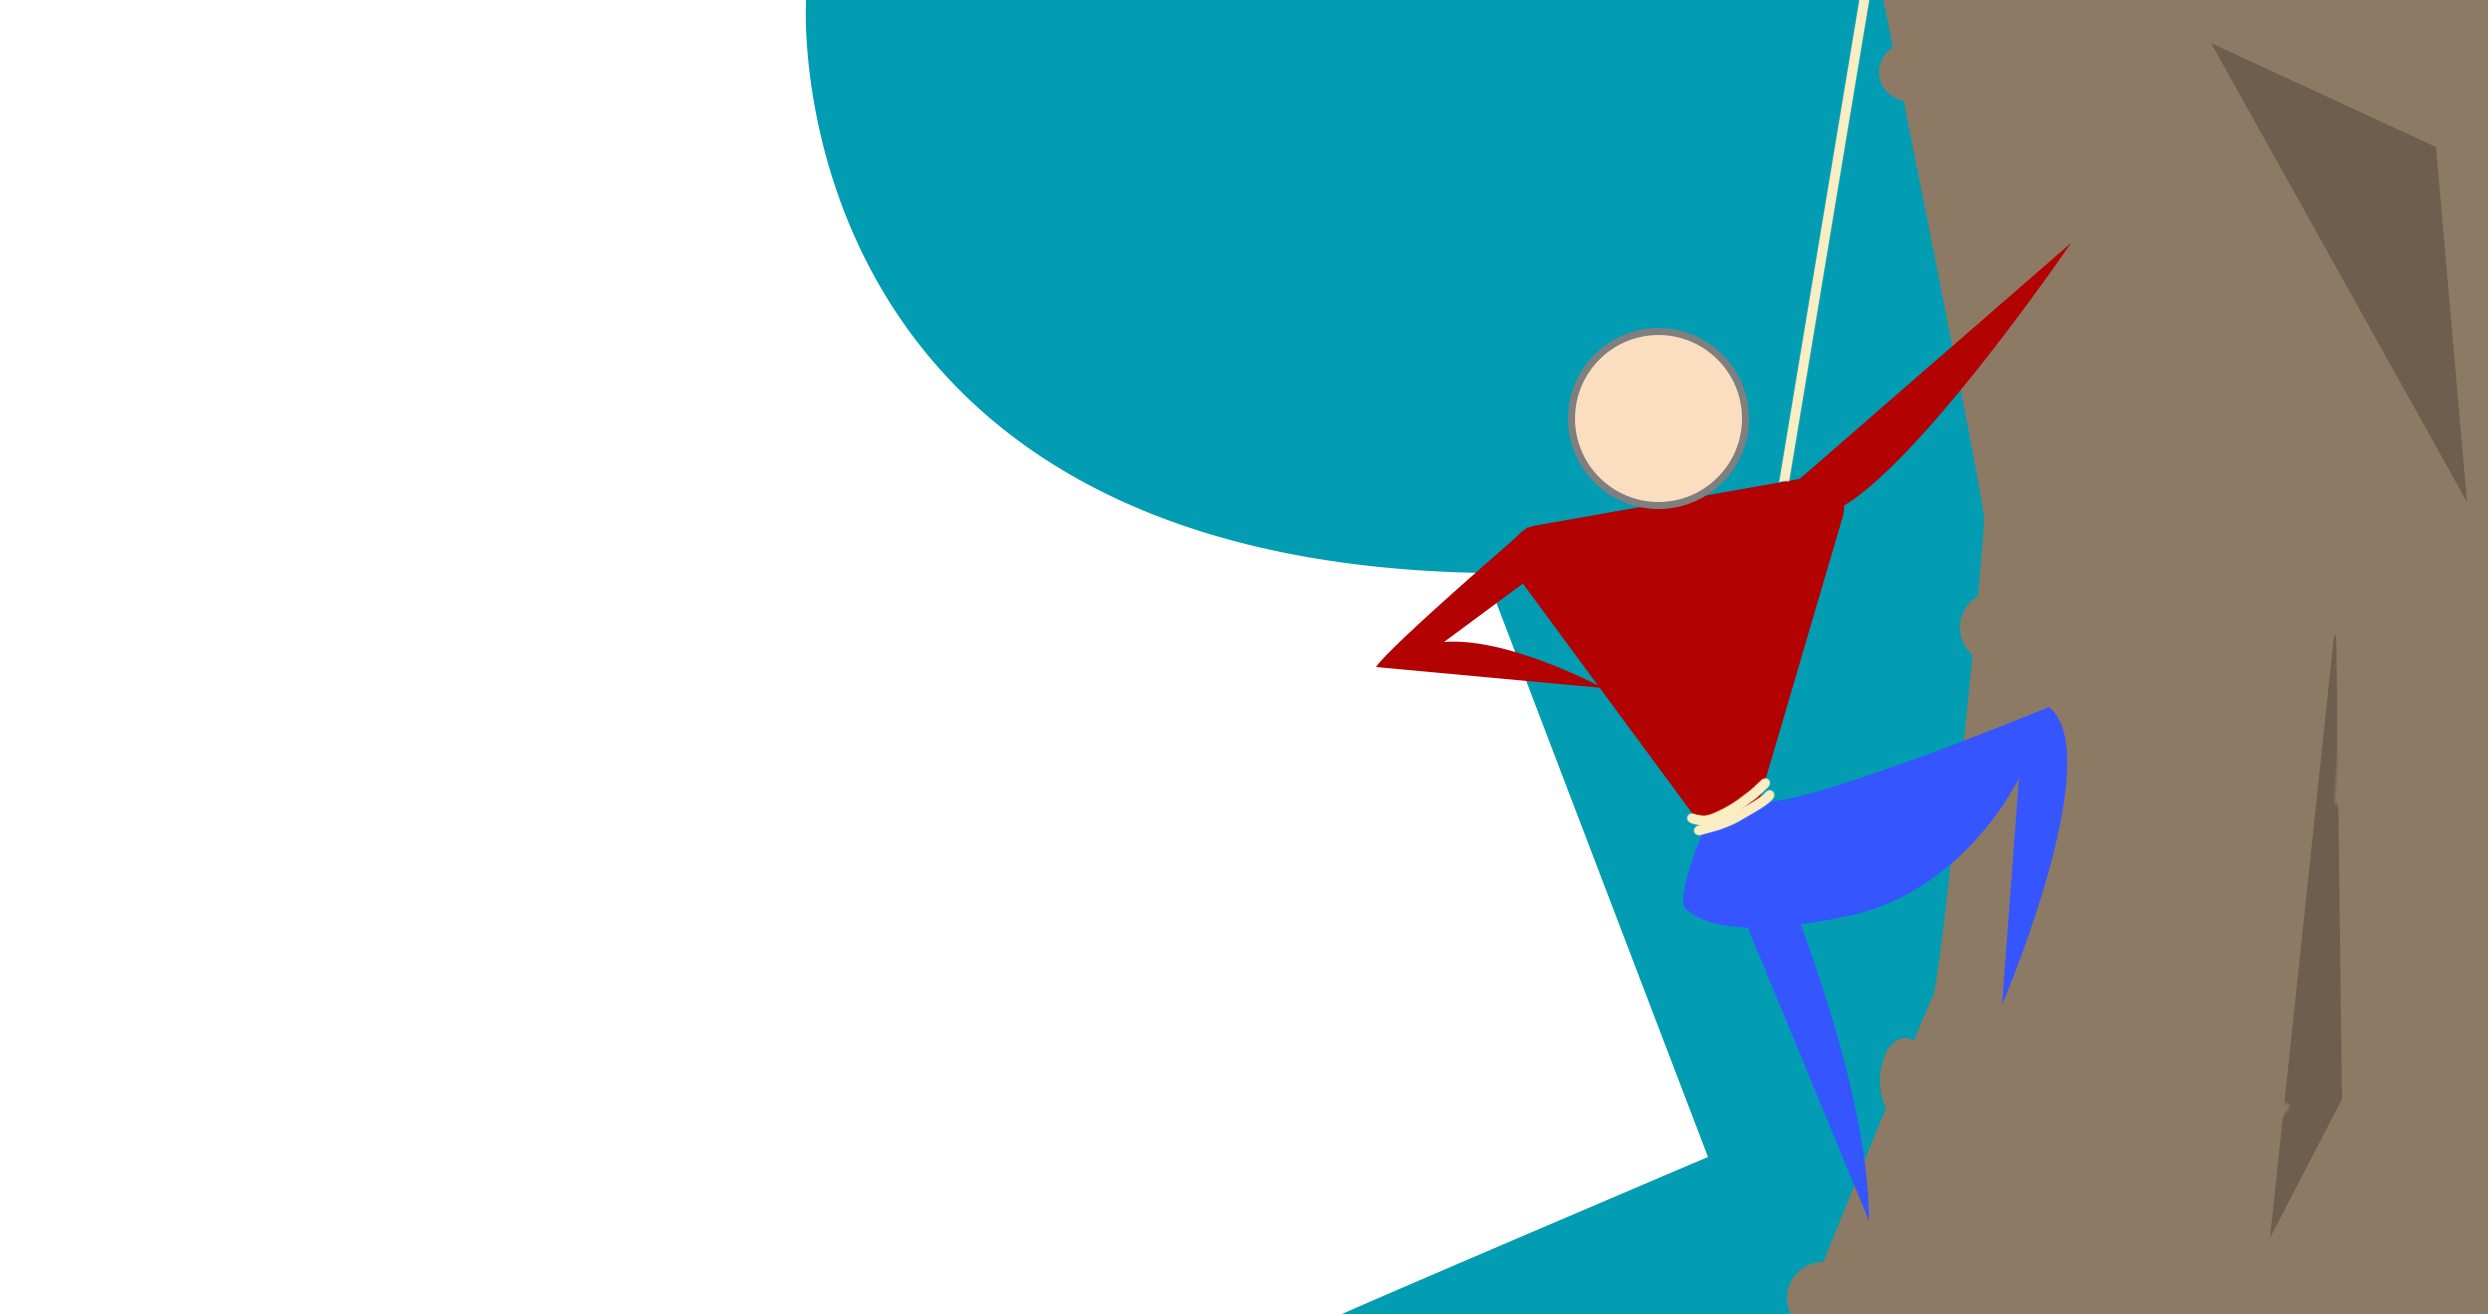
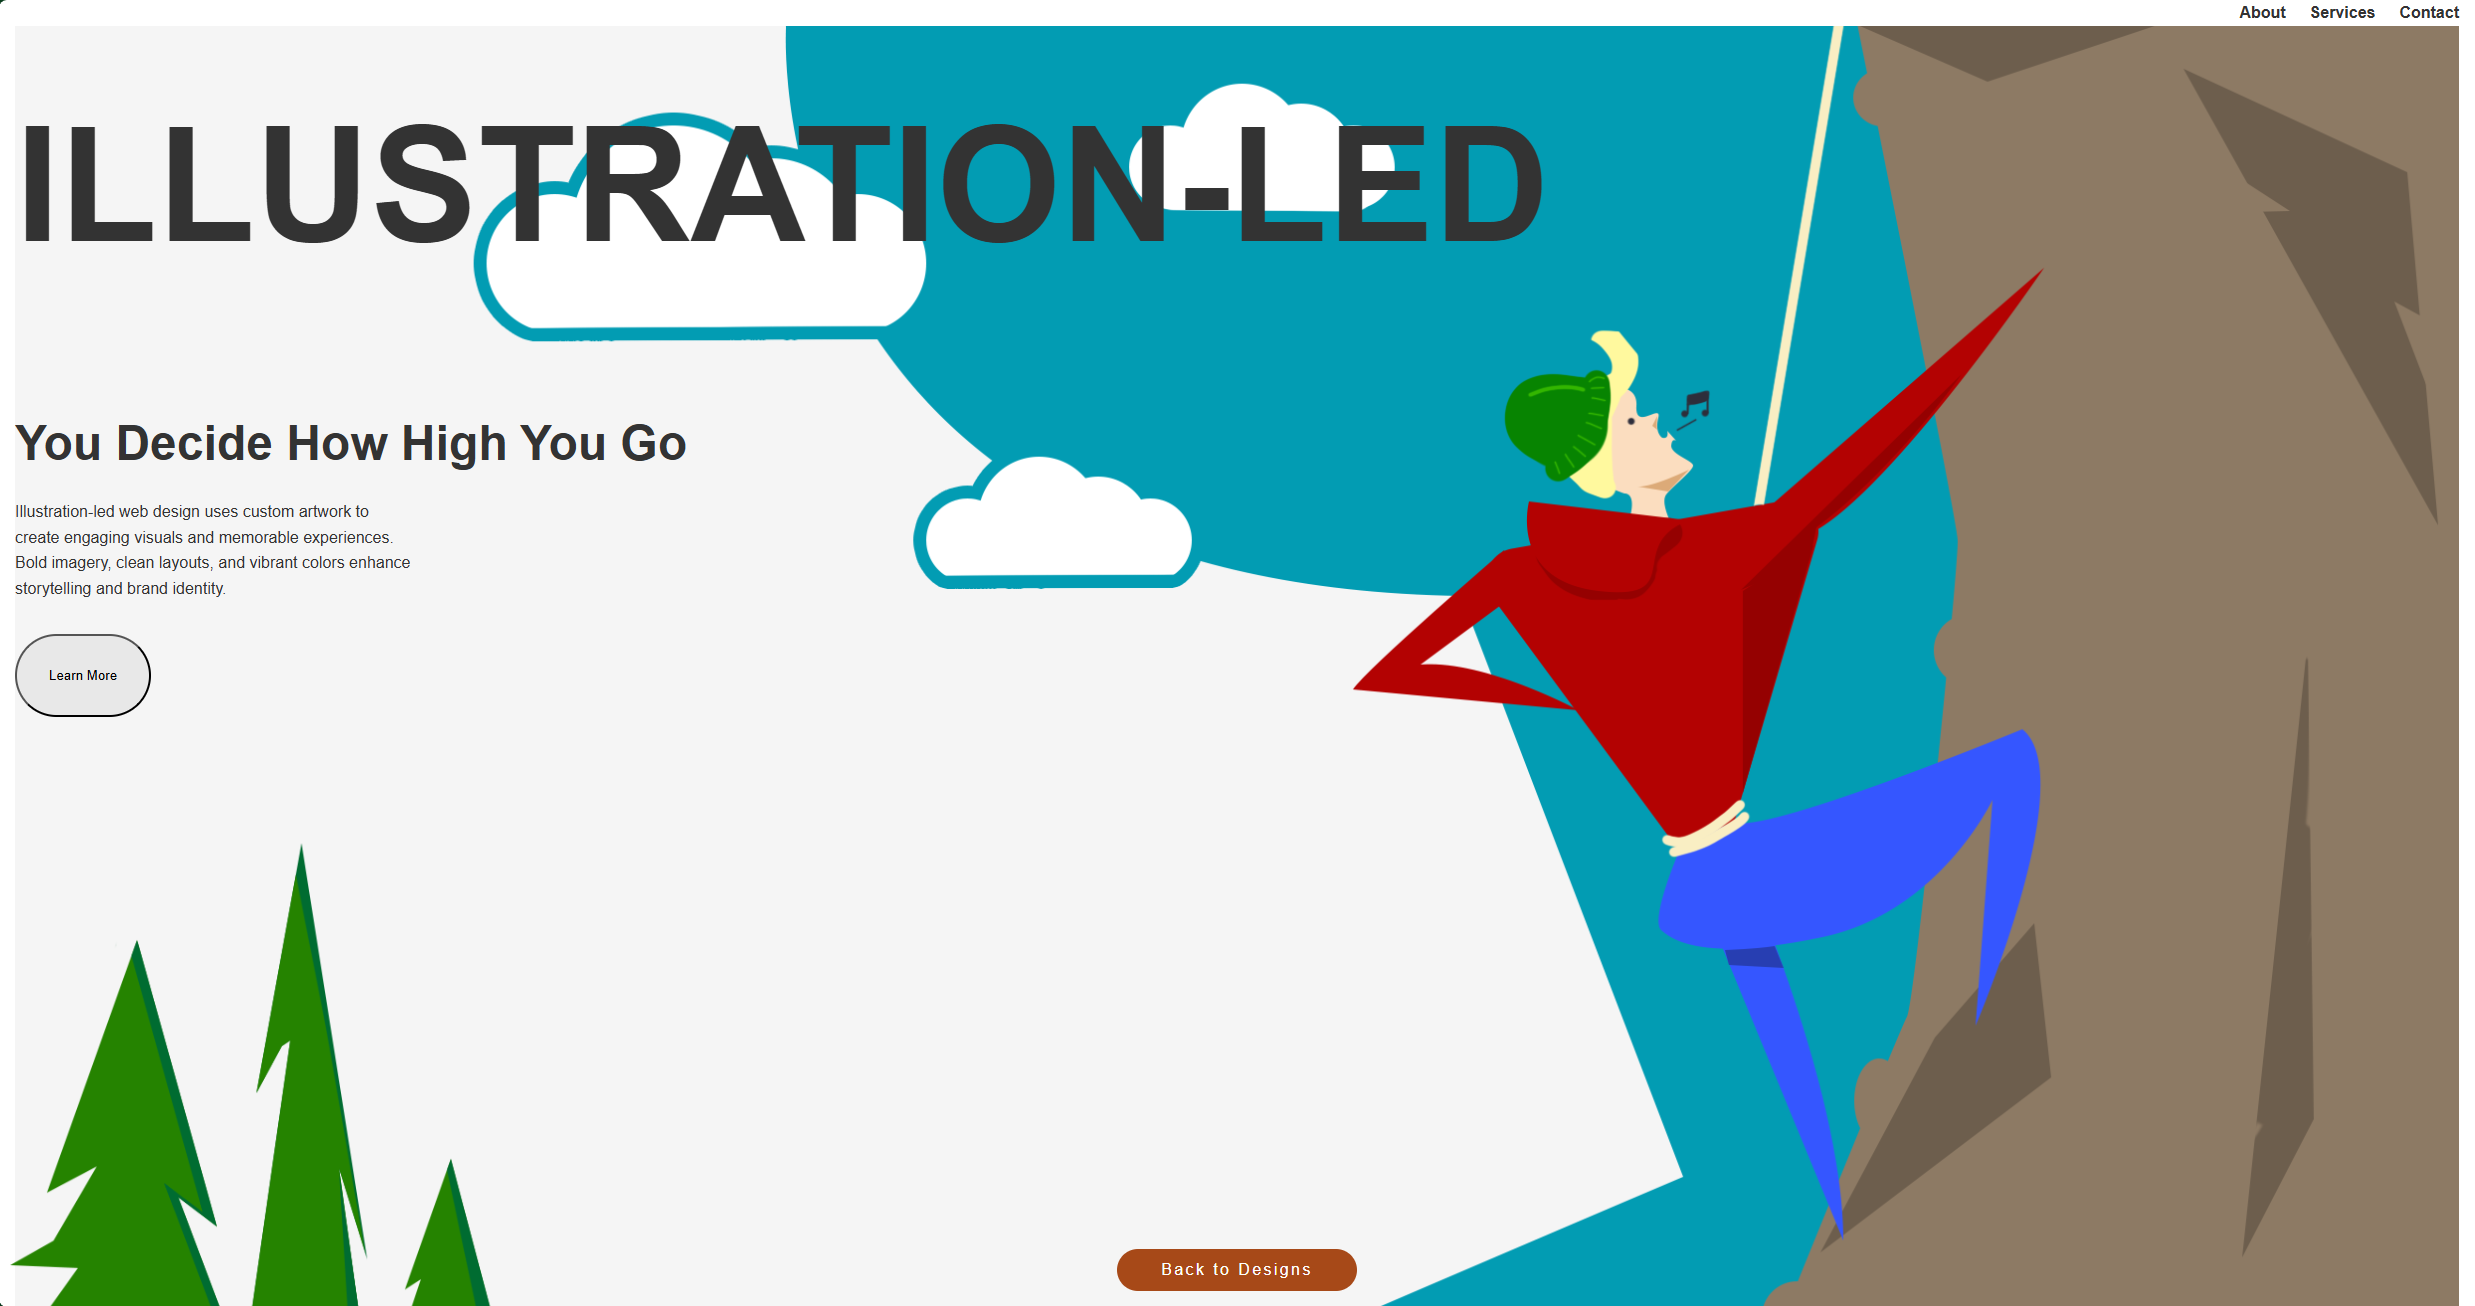
illustrations

diff --git a/pages/designs/illustrationLed.html b/pages/designs/illustrationLed.html
@@ -24,24 +24,28 @@
                 <a class="Return" href="../designs.html">Back to Designs</a>
             </div>
             <section class="hero">
+                
                 <div class="hero-content">
+                    <h1 id="title">ILLUSTRATION-LED</h1>
+                    <br><br><br>
                     <h1>You Decide How High You Go</h1>
-                    <p>Discover bespoke design services paired with stunning custom illustrations.</p>
-                    <button>Learn More</button>
+                    <p>Illustration-led web design uses custom artwork to create engaging visuals and memorable experiences. 
+                        Bold imagery, clean layouts, and vibrant colors enhance storytelling and brand identity.</p>
+                    <button type="button">Learn More</button>
                 </div>
                 <!-- <div class="hero-illustration"> -->
-                    <img id="trees" src="../../assets/images/designAssets/SITE_ILLUST_HERO_TREES.png" alt="Hero Illustration">
                 <!-- </div> -->
             </section>
-    
-            <section id="about">
+                <img id="trees" src="../../assets/images/designAssets/SITE_ILLUST_HERO_TREES.png" alt="Hero Illustration">
+            
+            <!-- <section id="about">
                 <h2>About Us</h2>
                 <p>Our team of creatives blends artistry and technology to deliver unmatched digital experiences.</p>
-            </section>
+            </section> -->
         </main>
     
         <footer>
-            <p>&copy; 2025 High-End Design Co. All Rights Reserved.</p>
+            <p>&copy; 2025 Air & Ember Illustration-Led Design Page</p>
         </footer>
     </body>
     </html>

diff --git a/css/designIllust.css b/css/designIllust.css
@@ -5,13 +5,20 @@
     box-sizing: border-box;
 }
 
+html {
+    width: 100%;
+    height: 100%;
+}
+
 body {
-    
+    height: max-content;
+    width: 100%;
     font-family: 'Helvetica', sans-serif;
     line-height: 1.6;
     color: #333;
     /* background-color: #f5f5f5; */
     padding: 0 1rem;
+    overflow-x: hidden;
 }
 
 /* Navigation */
@@ -38,11 +45,17 @@ main {
 }
 
 /* Hero Section */
+#title {
+    font-size: clamp(1rem, 10vw, 10rem);
+}
+
 .hero {
+    width: 100%;
     display: flex;
     align-items: center;
     justify-content: space-between;
     padding: 2rem 0;
+    z-index: 10;
 }
 
 .hero-content h1 {
@@ -61,6 +74,25 @@ main {
     height: auto;
 }
 
+button {
+    padding: 2rem;
+    border-radius: 100px;
+    background-color: rgba(228, 228, 228, 0.75);
+    transition: background-color 0.15s ease-in-out, border-radius 0.15s ease-in-out;
+    z-index: 100;
+}
+
+button:hover {
+    background-color: #029cb3;
+    border-radius: 0;
+}
+
+button:active {
+    background-color: red;
+}
+
+
+
 /* About Section */
 #about {
     text-align: center;
@@ -74,8 +106,8 @@ main {
 
 /* Footer */
 footer {
-    text-align: center;
-    padding: 1rem 0;
+    text-align: right;
+    padding: 1rem;
     background-color: #222;
     color: white;
     z-index: 10;
@@ -86,7 +118,7 @@ footer {
 } */
 
 #trees {
-    width: 100vw;
+    height: 500px;
     /* border: 5px solid red; */
     position: absolute;
     bottom: -35px;
@@ -126,3 +158,13 @@ footer {
     font-family: 'Krusty', sans-serif;
     z-index: 200000;
 }
+
+/* @media screen and (max-width: 845px) {
+    #title {
+        font-size: 3rem;
+    }
+
+    #trees {
+        width: 95vw;
+    }
+} */

diff --git a/scripts/cardDealer.js b/scripts/cardDealer.js
@@ -24,13 +24,13 @@ const designArray = [
         designPage: "../pages/designs/flatDesign.html"
     },
     {
-        designName: "Illustration-Led",
-        designImg: "../assets/images/placeholder.png",
+        designName: "Illustration",
+        designImg: "../assets/images/designAssets/SITE_Illust.png",
         designDesc: "Features hand-drawn or digital illustrations as focal points. Adds a playful, artistic vibe to the user experience.",
         designPage: "../pages/designs/illustrationLed.html"
     },
     {
-        designName: "Material Design",
+        designName: "Material",
         designImg: "../assets/images/placeholder.png",
         designDesc: "Inspired by Google’s design philosophy, it uses depth, shadows, and animations to create a tactile and realistic feel.",
         designPage: "../pages/designs/material.html"
